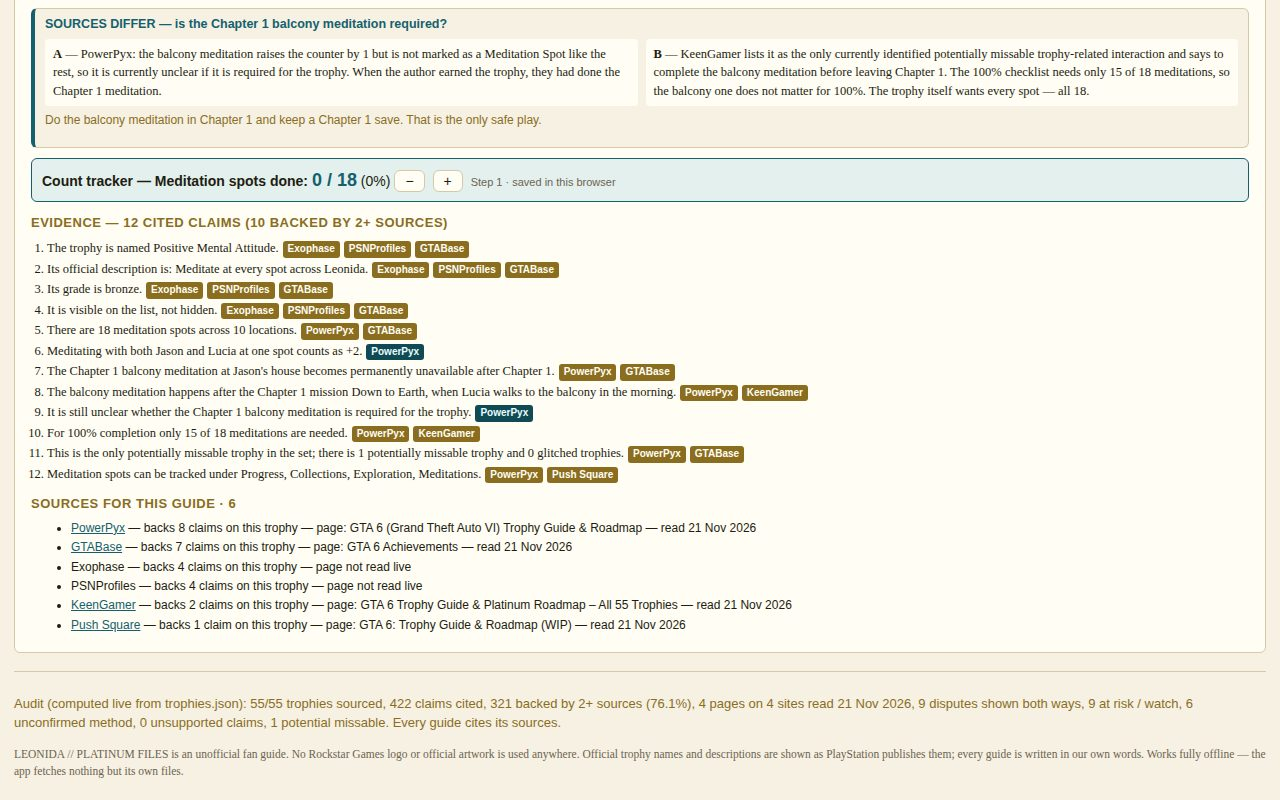
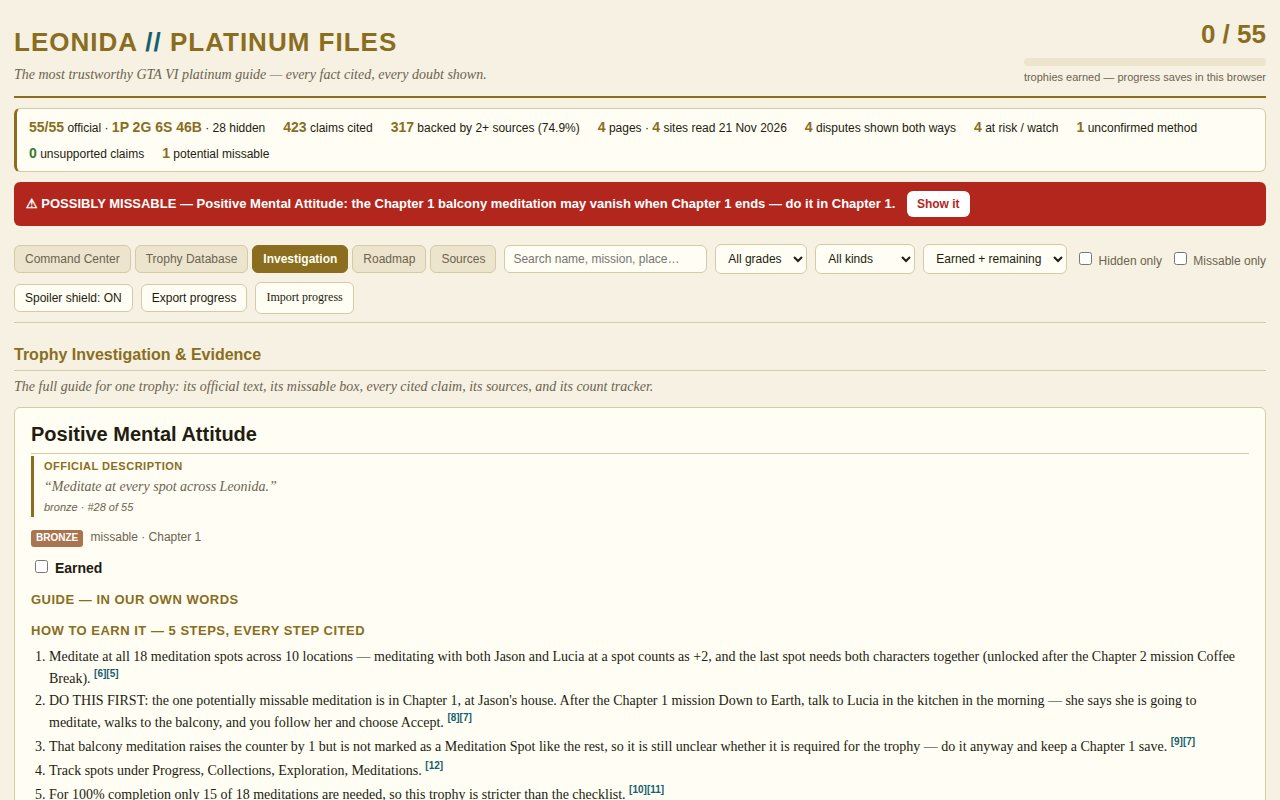
v3-fix: restore 5 PowerPyx-published methods wrongly marked unconfirmed
PowerPyx live page (crawled 06:50 UTC 21 Nov 2026) publishes full methods
for all five and the word 'unknown' appears nowhere on it. Restored in
own words with per-step citations, guideStatus confirmed:
- In The Beginning… (Ocean View Rooftop Bar, Apple Martini)
- Capital Offense (blue Banshee, Key Cloner, showroom window)
- Bad Luck, I Guess (Payday Loans second robbery as Lucia, on foot)
- The Truth Is Out There (UFO easter egg, Starlet Motel, after 2AM)
- Ten Pin (bike, kick 10 pedestrians in 60s)
Fair Game stays unconfirmed-method: PowerPyx says the trigger animal is
still undergoing confirmation. Removed the 5 false dispute panels quoting
PowerPyx 'currently unknown'; kept pma-balcony, fair-game-animal,
strangers-rest, platinum-time (Push Square 'up to 300 hours or more'
verified live). Claims 423, 317 backed by 2+ sources (74.9%),
unconfirmed 1, disputes 4, at-risk 4. Screenshots re-rendered.

Changed region(s): [[0.0, 0.0, 1.0, 1.0]]

diff --git a/app/src/disputes.js b/app/src/disputes.js
@@ -17,14 +17,6 @@ export const DISPUTE_PANELS = [
     verdict: 'Do the whole Bret line and all 15 Target Decks. Do not trust a single named animal until a source confirms it.',
   },
   {
-    id: 'truth-spawn',
-    trophy: 'The Truth Is Out There',
-    title: 'UNCONFIRMED — no published method yet, only a believed link',
-    a: 'PowerPyx: "This trophy is currently unknown (believed to be from UFO questline)." No location, time or trigger is given.',
-    b: 'KeenGamer: "Hidden trophy with an unconfirmed unlock method." No second source gives a method either.',
-    verdict: 'The UFO link is a belief, not a confirmed method. Do not trust any specific location or trigger until a source confirms one.',
-  },
-  {
     id: 'strangers-rest',
     trophy: 'Strangers & Freaks',
     title: 'STILL BEING CONFIRMED — the remaining qualifying strands',
@@ -39,38 +31,6 @@ export const DISPUTE_PANELS = [
     a: 'PowerPyx and KeenGamer both put the platinum at roughly 200 hours, difficulty 4/10.',
     b: 'Push Square says to expect "up to 300 hours or more" for the same platinum.',
     verdict: 'Plan for 200 hours; budget 300. The gap is in how much cleanup the writer assumes, not in the trophy list.',
-  },
-  {
-    id: 'in-the-beginning',
-    trophy: 'In The Beginning…',
-    title: 'UNCONFIRMED — no published method yet',
-    a: 'PowerPyx: "This trophy is currently unknown." No bar, drink or trigger is named.',
-    b: 'KeenGamer: "Enjoy a cocktail overlooking Ocean Beach. Exact trigger still being confirmed."',
-    verdict: 'No published method exists. Do not trust any specific bar or drink until a source confirms one.',
-  },
-  {
-    id: 'capital-offense',
-    trophy: 'Capital Offense',
-    title: 'UNCONFIRMED — no published method yet',
-    a: 'PowerPyx: "This trophy is currently unknown." No car or showroom is named.',
-    b: 'KeenGamer: "Escape from a vehicle showroom in the manner described by the trophy. Exact method still unconfirmed."',
-    verdict: 'No published method exists. Do not trust any specific car or showroom until a source confirms one.',
-  },
-  {
-    id: 'bad-luck',
-    trophy: 'Bad Luck, I Guess',
-    title: 'UNCONFIRMED — only a believed link, no method',
-    a: 'PowerPyx: "This trophy is currently unknown (believed to be related to the Payday Loans store from Prologue)."',
-    b: 'KeenGamer: "Hidden trophy with an unconfirmed unlock method." No second source gives a method either.',
-    verdict: 'The Payday Loans link is a belief, not a confirmed method. Do not trust any specific store or escape plan until a source confirms one.',
-  },
-  {
-    id: 'ten-pin',
-    trophy: 'Ten Pin',
-    title: 'UNCONFIRMED — only a believed link, no method',
-    a: 'PowerPyx: "This trophy is currently unknown (believed to be from kicking enemies while driving a motorcycle)."',
-    b: 'KeenGamer: "Perform the required melee drive-by elimination. Precise method still being confirmed."',
-    verdict: 'The motorcycle link is a belief, not a confirmed method. Do not trust any specific count or time limit until a source confirms one.',
   },
 ];
 

diff --git a/README.md b/README.md
@@ -6,7 +6,7 @@
 
 The most trustworthy GTA VI platinum guide: an offline web app covering all 55 PlayStation 5 trophies with their official names, descriptions and grades, a guide in our own words for each one, and a tracker that saves in the browser.
 
-Every fact in the guide is a cited claim — 422 claims in total, 321 of them backed by 2+ sources (PowerPyx, GTABase, Exophase, PSNProfiles, KeenGamer, Push Square). The audit strip at the top of the app computes those numbers live from `app/data/trophies.json`; nothing is hand-typed. Where the sources disagree — or a method is still being confirmed — the guide shows both versions in a dispute panel instead of pretending certainty. Five trophies (In The Beginning…, Capital Offense, Bad Luck I Guess, The Truth Is Out There, Ten Pin) have no published method yet: the live PowerPyx page lists all five as currently unknown, and the guide says so plainly instead of printing a guessed method. The one potentially missable trophy (Positive Mental Attitude, Chapter 1) gets a red banner across the top of every view, a warning on its own page and in the roadmap; every other trophy page says plainly that it is not missable.
+Every fact in the guide is a cited claim — 423 claims in total, 317 of them backed by 2+ sources (PowerPyx, GTABase, Exophase, PSNProfiles, KeenGamer, Push Square). The audit strip at the top of the app computes those numbers live from `app/data/trophies.json`; nothing is hand-typed. Where the sources disagree — or a method is still being confirmed — the guide shows both versions in a dispute panel instead of pretending certainty. Only one trophy (Fair Game) has a method still being confirmed: the live PowerPyx page says it is still undergoing confirmation which animal exactly unlocks it. The other five trophies once listed as unconfirmed now have published PowerPyx methods in the guide. The one potentially missable trophy (Positive Mental Attitude, Chapter 1) gets a red banner across the top of every view, a warning on its own page and in the roadmap; every other trophy page says plainly that it is not missable.
 
 Features: checklist saved in localStorage, export/import of progress, filters by grade/kind/earned/hidden/missable plus text search, a spoiler shield that hides story trophies until earned, a 5-phase chapter-ordered roadmap with points of no return, a missable grid, persistent count trackers (meditations, stunts, vehicles, dollars…), a source matrix, and an unconfirmed-method register. Fully offline — the app fetches nothing but its own files. Deterministic views for screenshots: `?view=command|database|trophy|roadmap`, `?trophy=<id or slug>`, `?demo=earned10` (seeds 10 earned trophies for screenshots only, never by default).
 
